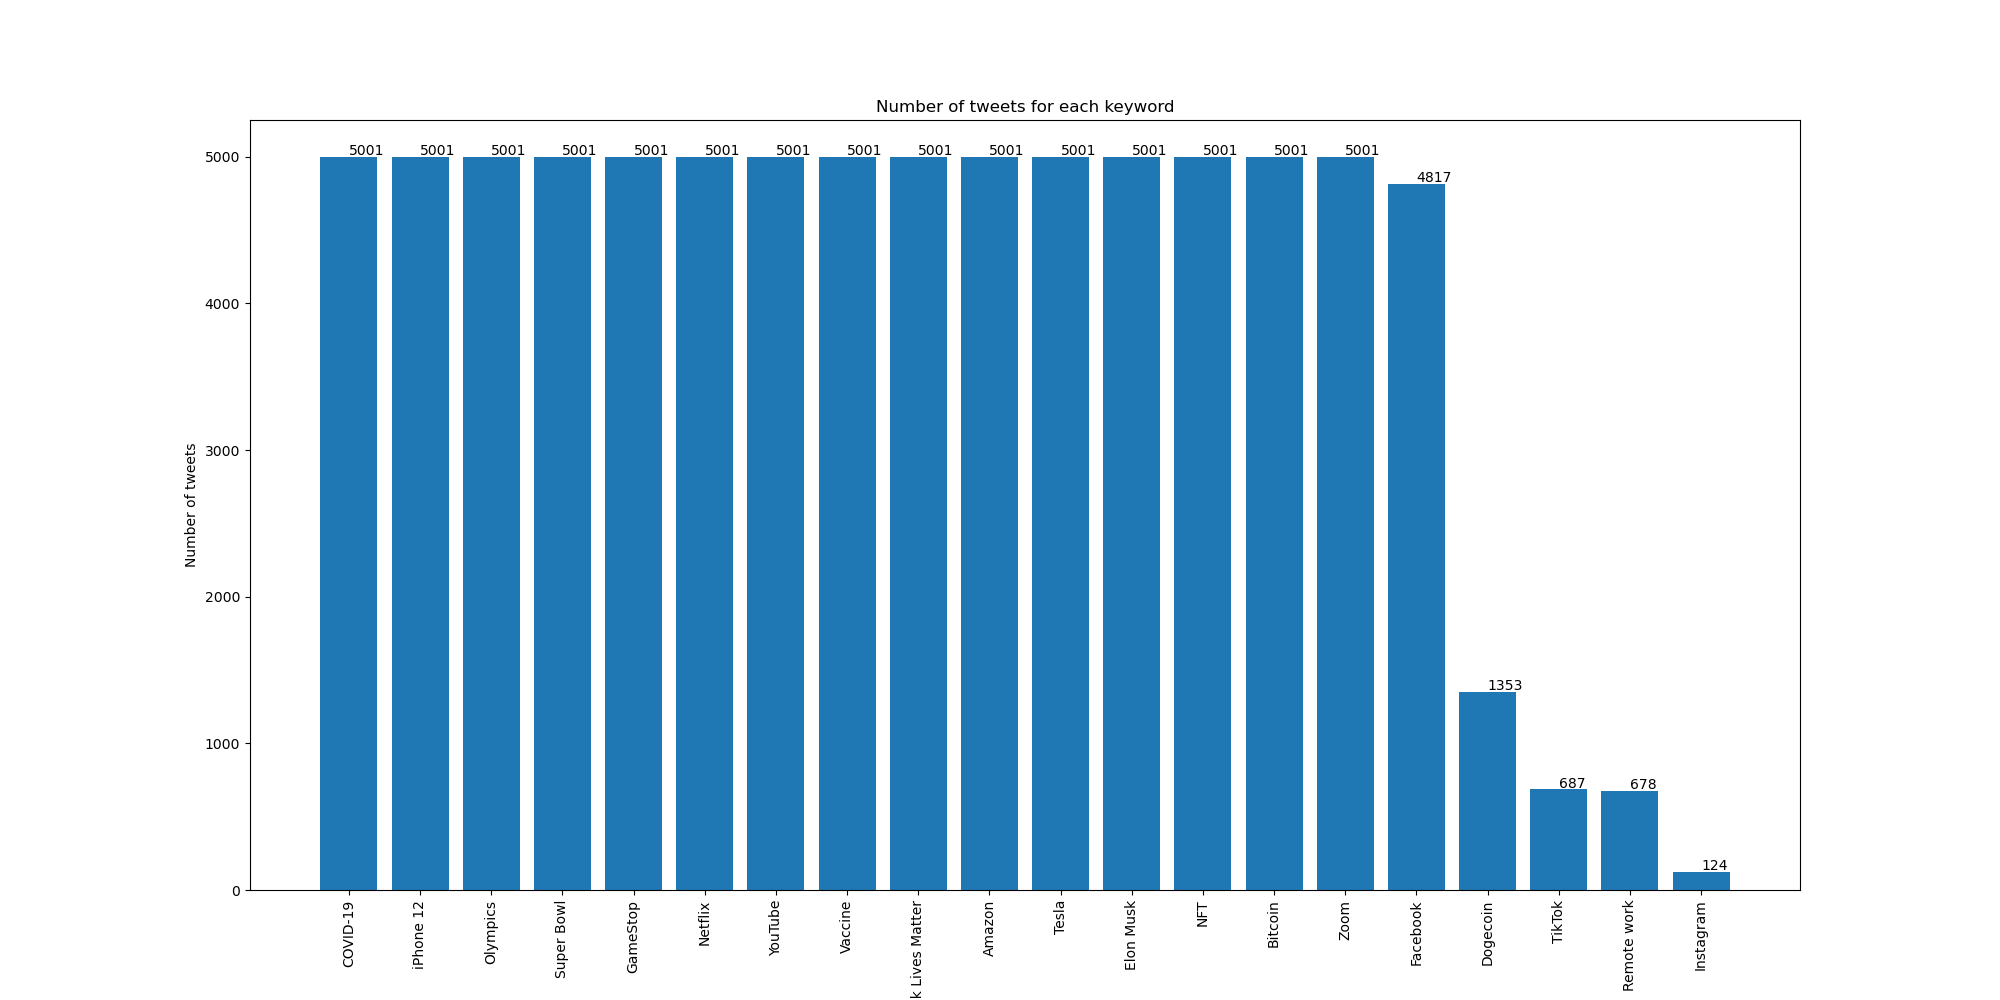
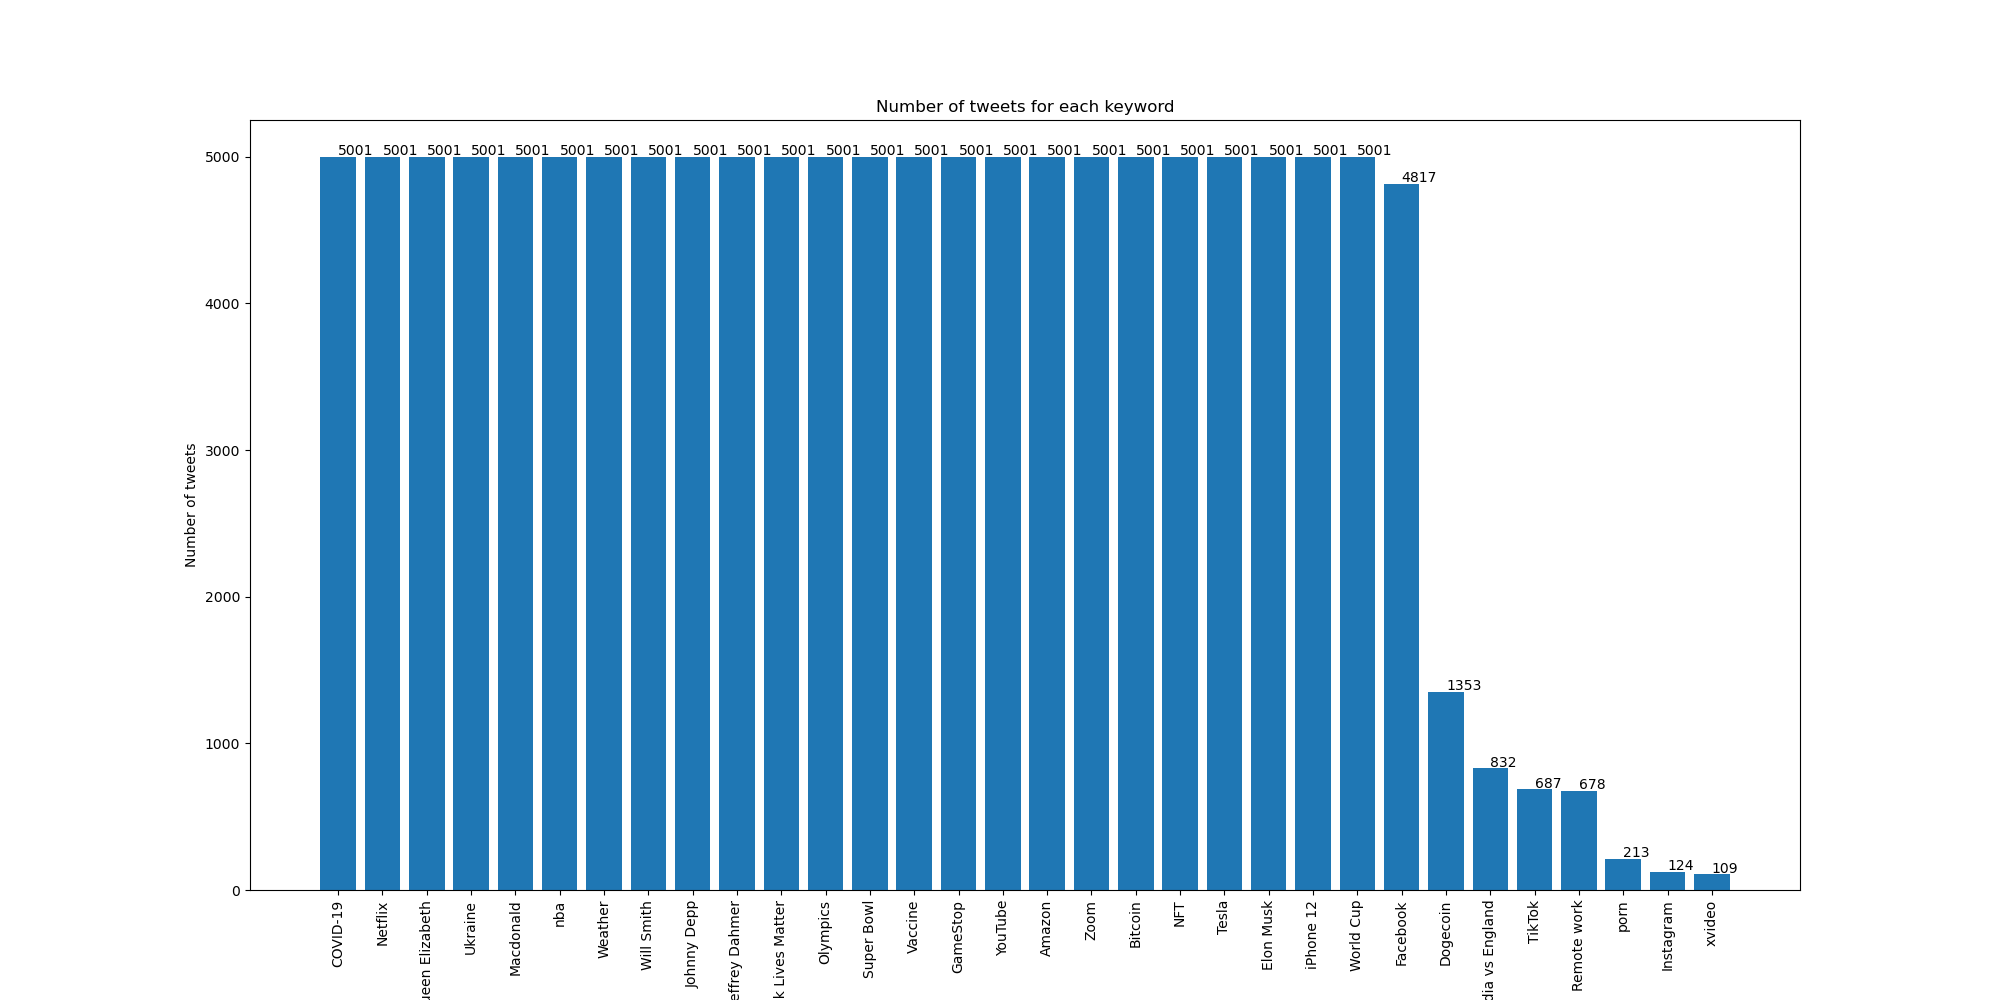
[UPDATE] README.md

Changed region(s): [[0.155, 0.124, 0.868, 0.992]]

diff --git a/README.md b/README.md
@@ -10,6 +10,8 @@ Crawling Twitter's reply and save their contents and likes
 |likes|`int`|Number of likes|
 |tweet|`str`|Content of the tweet|
 
+[Kaggle Dataset](https://www.kaggle.com/datasets/jackksoncsie/twitter-dataset-keywords-likes-and-tweets)
+
 ## Usage
 
 Top 20 keywords in 2021, each keyword has `5000` tweets
@@ -34,6 +36,18 @@ Top 20 keywords in 2021, each keyword has `5000` tweets
 "Super Bowl",
 "Olympics",
 "Black Lives Matter"
+"India vs England",
+"Ukraine",
+"Queen Elizabeth",
+"World Cup",
+"Jeffrey Dahmer",
+"Johnny Depp",
+"Will Smith",
+"Weather",
+"xvideo",
+"porn",
+"nba",
+"Macdonald",
 ```
 
 ![](./count.png)
